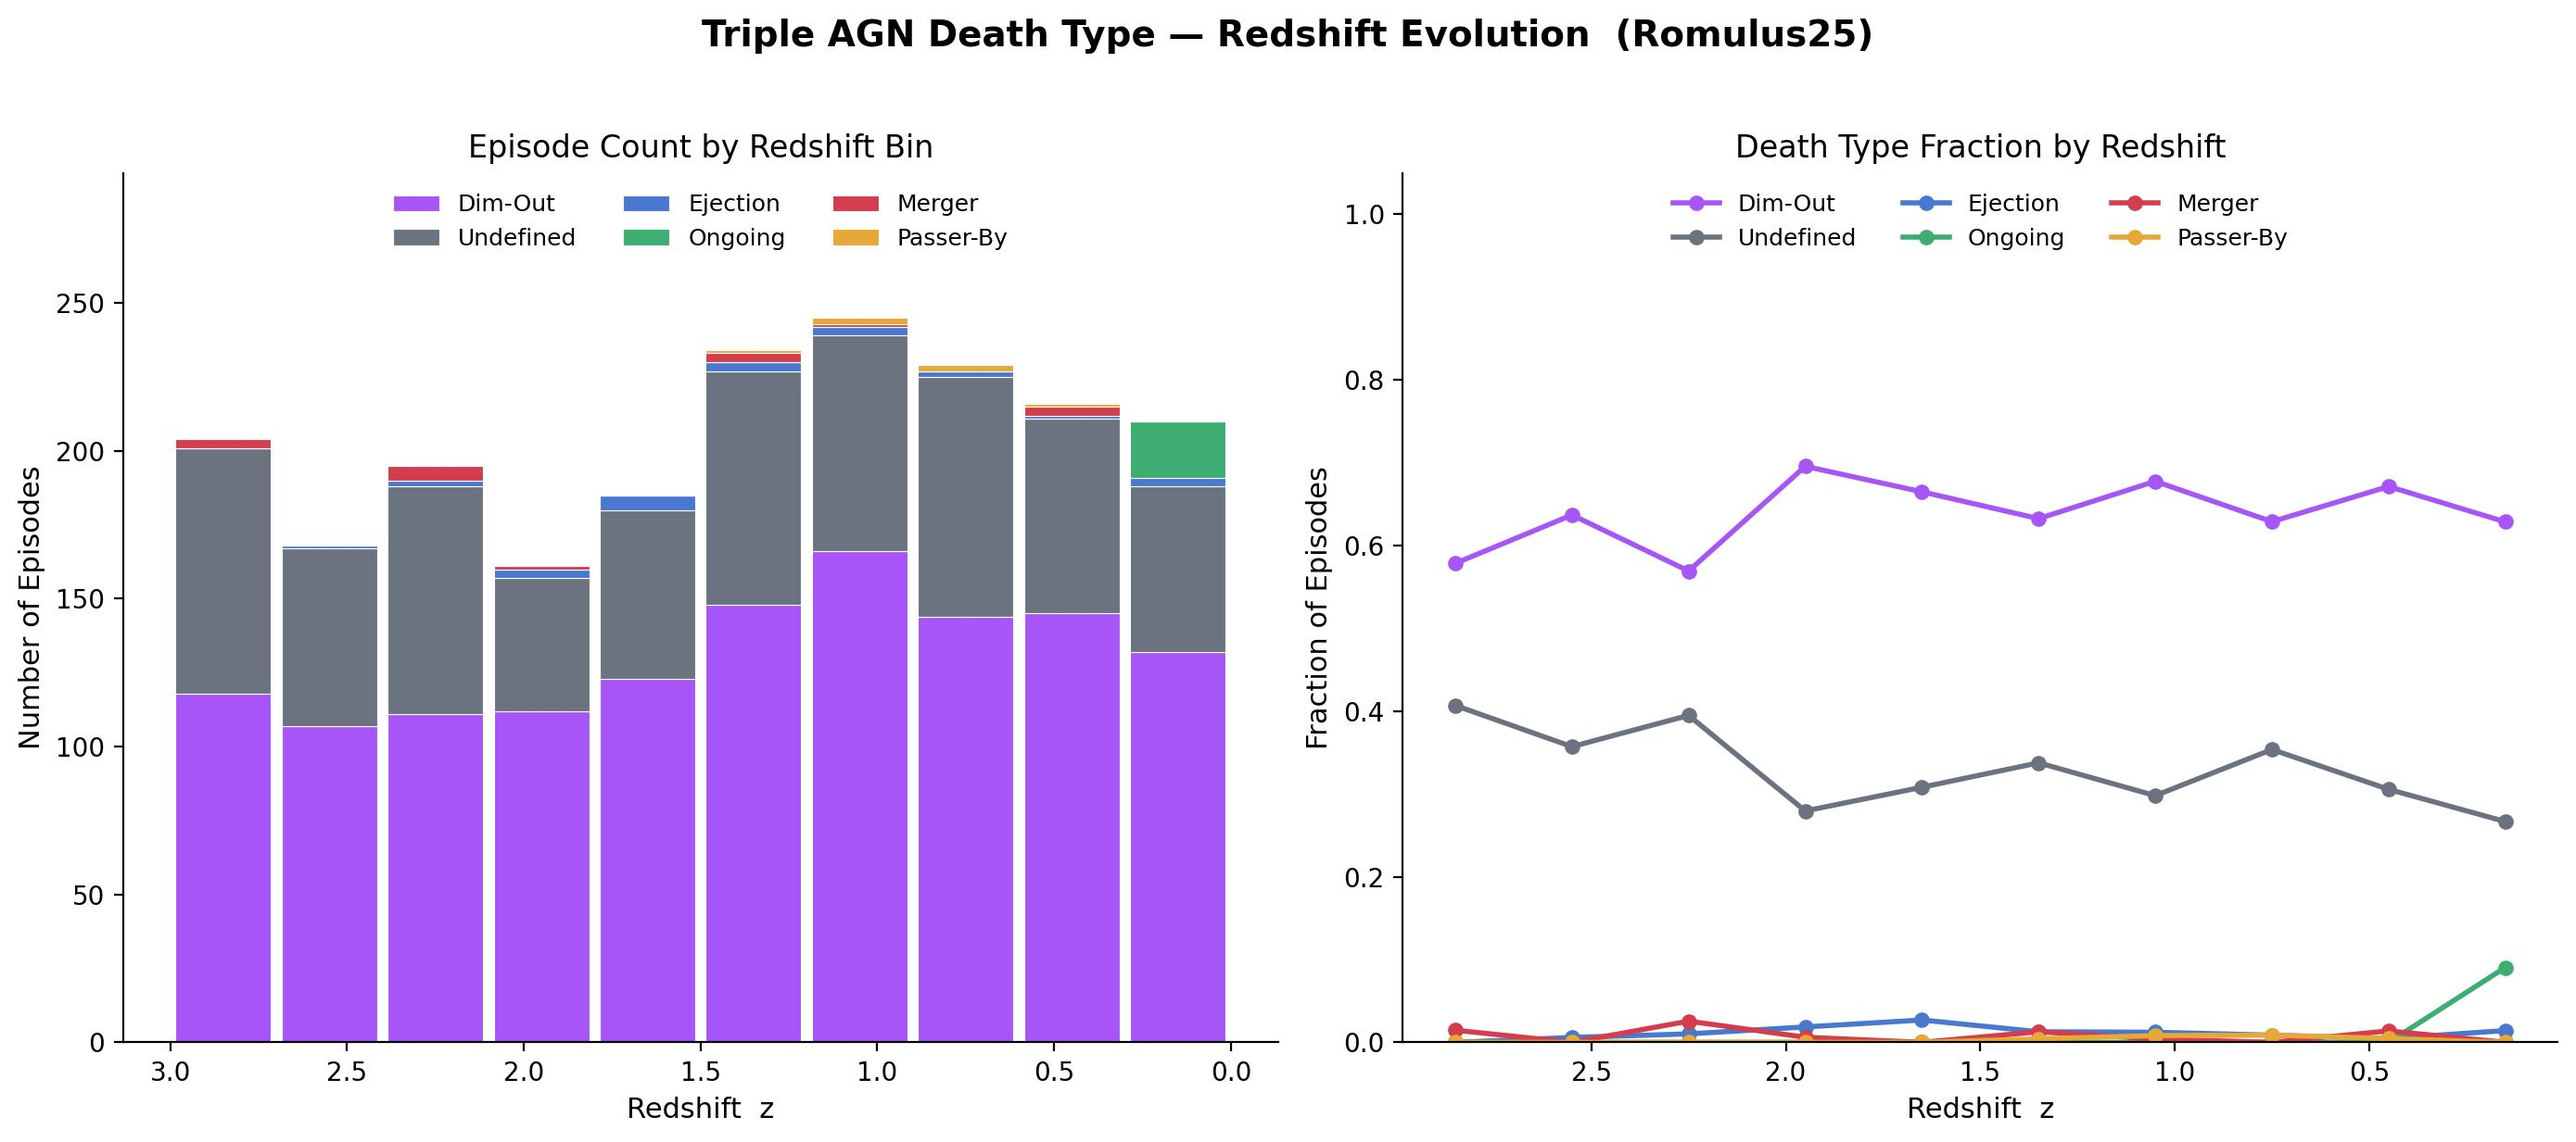
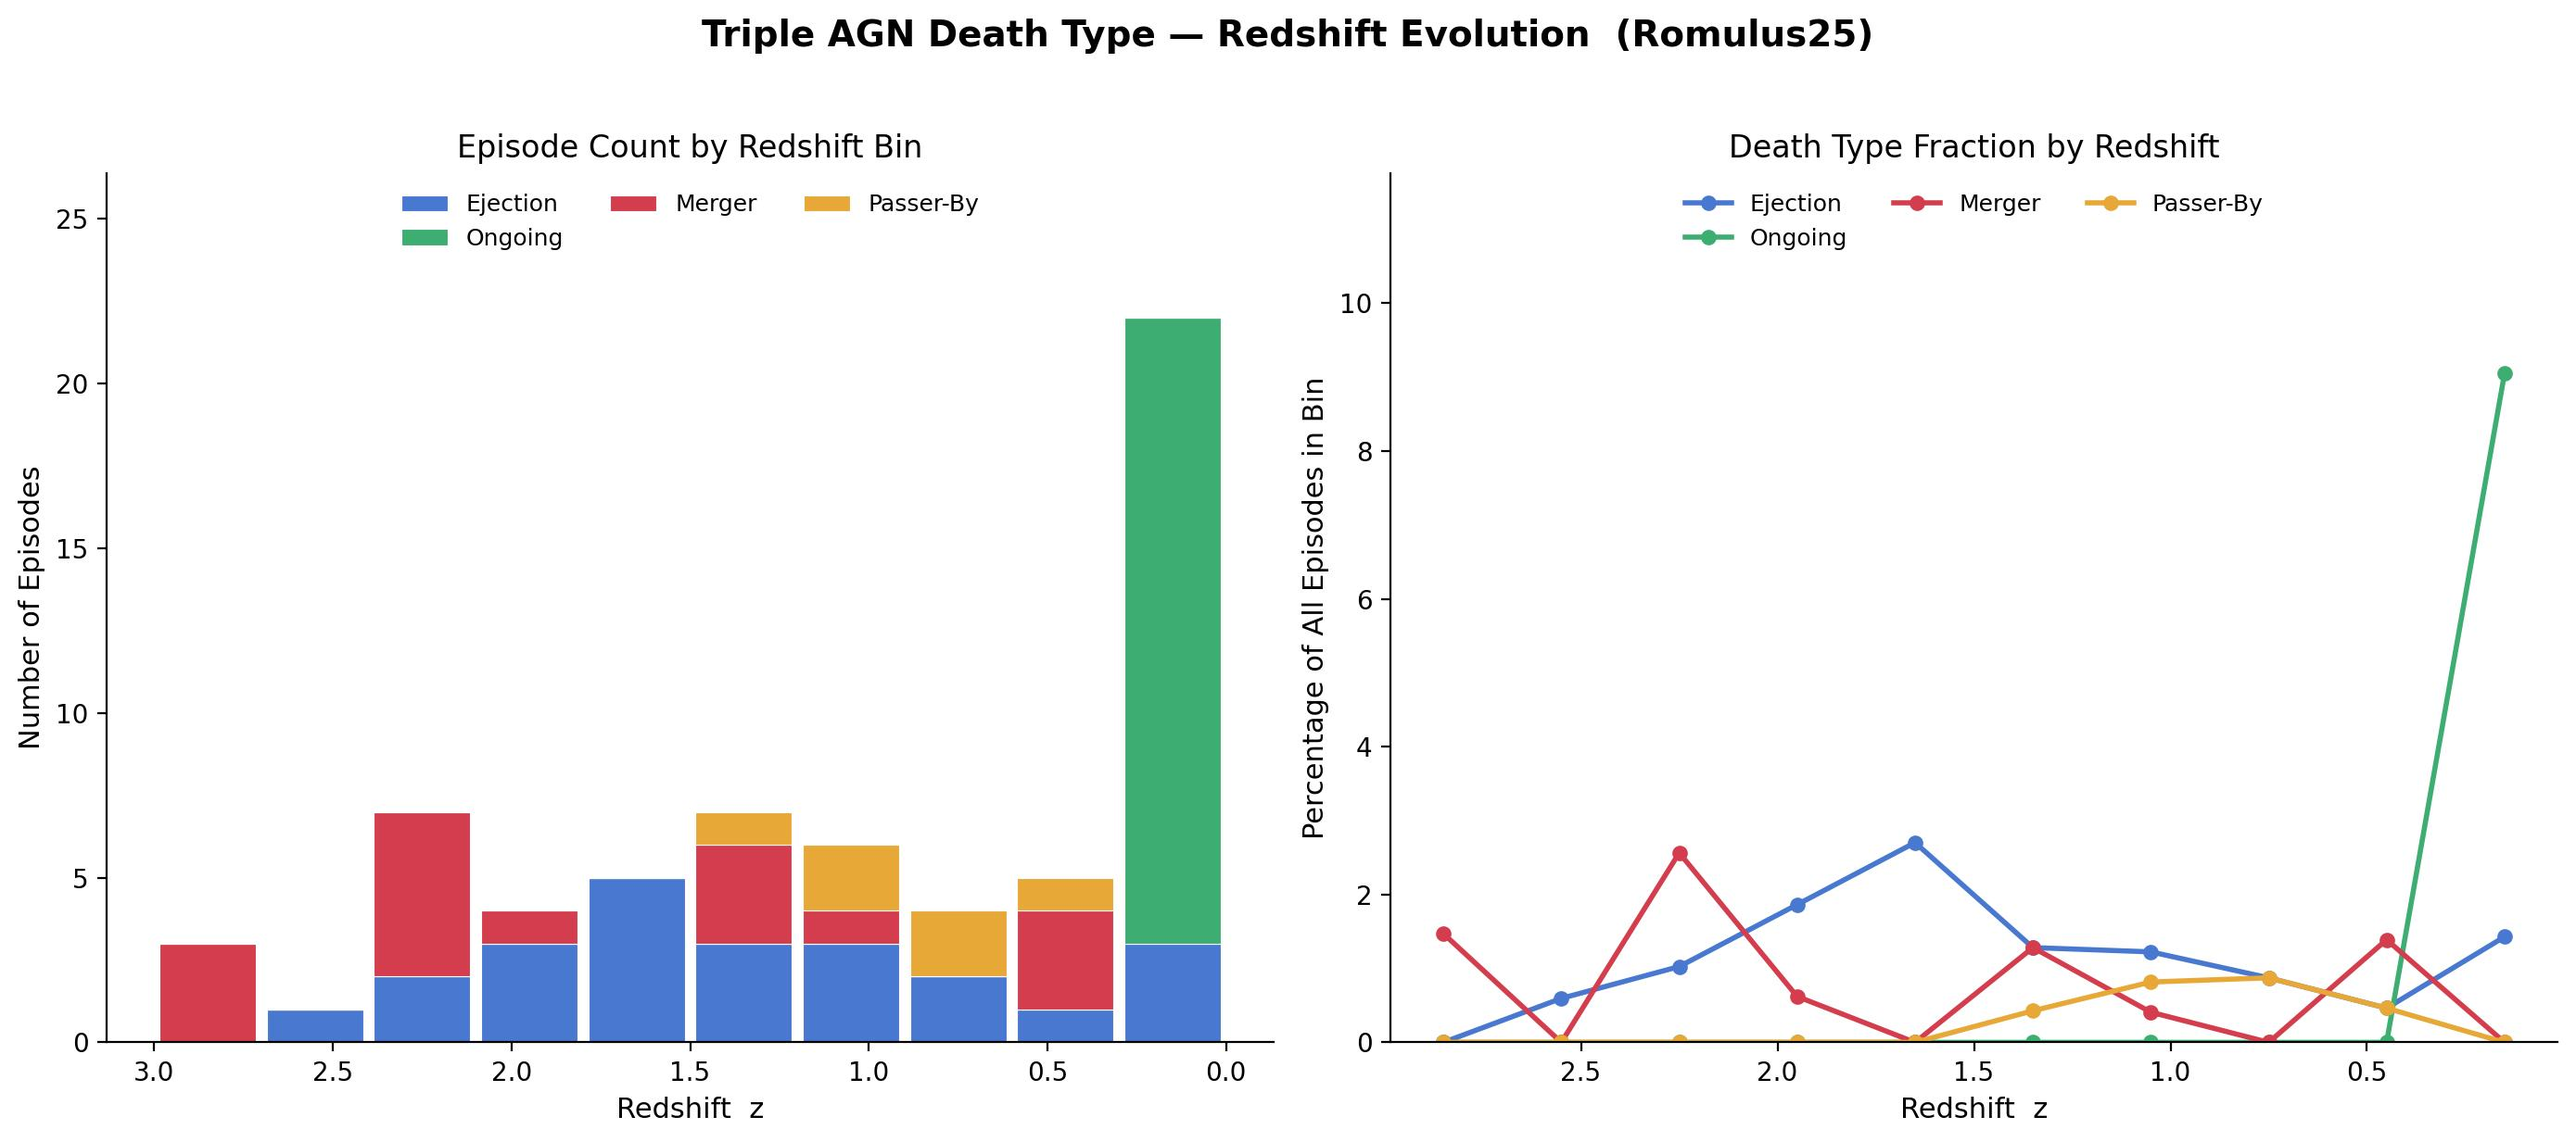
updates

diff --git a/main.tex b/main.tex
@@ -660,7 +660,7 @@ These gas column density maps represent individual frames from longer time-serie
 \begin{figure*}
     \centering
     \includegraphics[width=\textwidth]{plot_rs.jpeg}
-    \caption{Redshift evolution of triple AGN episode fates. \textit{Left:} Number of episodes in each of ten redshift bins spanning $z = 0$ to $z = 3$, stacked and coloured by terminal fate as classified in Section~\ref{subsec:fates}. \textit{Right:} The same data as the fraction of episodes in each bin. Dim-Out dominates at all redshifts (57--70\%), followed by Undefined (27--41\%), which is somewhat more common at high redshift. Ejection (0--3\%), Merger (0--3\%), and Passer-By ($<1\%$) show no clear redshift trend. The rise in the Ongoing fraction in the lowest-redshift bin is an artefact of the catalogue ending at $z \approx 0.06$.}
+    \caption{Redshift evolution of the triple AGN episode fates with an identified cause: Ejection, Merger, Passer-By, and Ongoing. Dim-Out and Undefined episodes, which make up 57--70\% and 27--41\% of each bin respectively, are not shown. \textit{Left:} Number of episodes of each shown fate in ten redshift bins spanning $z = 0$ to $z = 3$, stacked and coloured by fate. \textit{Right:} The same counts as a percentage of all episodes ending in each bin, including those not shown. Ejection (0--3\%), Merger (0--3\%), and Passer-By ($< 1\%$) show no clear redshift trend. The rise in the Ongoing fraction to 9\% in the lowest-redshift bin is an artefact of the catalogue ending at $z \approx 0.06$.}
     \label{fig:fates_z}
 \end{figure*}
 
@@ -707,7 +707,7 @@ Table~\ref{tab:end_states} divides the Undefined class according to the state of
 
 Confirmed SMBH--SMBH mergers end only 0.8\% of episodes, and even counting all 113 SMBHs that vanished while lying further from the other members, mergers would end 6.3\% of episodes. These fractions are not directly comparable to the $\sim 70\%$ of SMBH pairs in dual systems found to eventually merge by \citet{Saeedzadeh2024}. Our figures count mergers at the snapshot immediately following an episode at a threshold of $10^{40}\,\mathrm{erg\,s^{-1}}$, whereas theirs follows pairs at $10^{43}\,\mathrm{erg\,s^{-1}}$ through to coalescence. Since most episodes end with all three SMBHs still in close proximity, the low merger fraction indicates that episodes usually end before any coalescence, and following the SMBHs beyond the end of each episode would be required to determine how many eventually merge. We also note that Romulus25 merges SMBHs at separations of $0.7\,\mathrm{kpc}$, so these simulations cannot address the three-body hardening of bound binaries at parsec scales discussed in Section~\ref{subsec:triple_theory}. Among the 16 Merger episodes, the SMBH that disappears is the Host in 3, Neighbour~1 in 6, and Neighbour~2 in 7 (Figure~\ref{fig:merger_roles}, left), too few to establish which member is preferentially absorbed.
 
-Figure~\ref{fig:fates_z} examines whether the terminal fate of a triple AGN episode depends on redshift. The left panel shows the number of episodes of each fate in ten redshift bins spanning $z = 0$ to $z = 3$, while the right panel shows the same information as the fraction of episodes within each bin. Dim-Out is the dominant fate at every redshift, accounting for 57--70\% of episodes, followed by Undefined at 27--41\%. The Undefined fraction is somewhat higher at $z > 2$, consistent with further AGN more often joining a system at the higher AGN number densities of early times (Section~\ref{subsec:agn_population}). The Ejection and Merger fractions lie below 3\% and the Passer-By fraction below 1\% in every bin, none with a clear redshift trend. The Ongoing fraction is negligible across most of the redshift range but reaches 9\% in the lowest-redshift bin. This is an artefact of the catalogue ending at $z \approx 0.06$: episodes in this bin have the least opportunity to be followed to a terminal fate, and their prevalence should not be interpreted as evidence that low-redshift triple AGN are intrinsically more stable.
+Figure~\ref{fig:fates_z} examines whether the terminal fate of a triple AGN episode depends on redshift, for the four fates with an identified cause: Ejection, Merger, Passer-By, and Ongoing. The left panel shows the number of episodes of each of these fates in ten redshift bins spanning $z = 0$ to $z = 3$, and the right panel expresses the same counts as a percentage of all episodes ending in each bin. Dim-Out and Undefined episodes are omitted from the figure. Their redshift dependence is simple to state: Dim-Out is the dominant fate at every redshift, accounting for 57--70\% of episodes, followed by Undefined at 27--41\%. The Undefined fraction is somewhat higher at $z > 2$, consistent with further AGN more often joining a system at the higher AGN number densities of early times (Section~\ref{subsec:agn_population}). The fates shown are rare in every bin, with at most seven episodes per bin outside the lowest-redshift one. Ejection and Merger each account for less than 3\% of episodes in every bin, and Passer-By for less than 1\%, so that none shows a clear redshift trend given these small numbers. The Ongoing fraction is zero across most of the redshift range but reaches 9\% in the lowest-redshift bin. This is an artefact of the catalogue ending at $z \approx 0.06$: episodes in this bin have the least opportunity to be followed to a terminal fate, and their prevalence should not be interpreted as evidence that low-redshift triple AGN are intrinsically more stable.
 
 \begin{figure*}
     \centering
